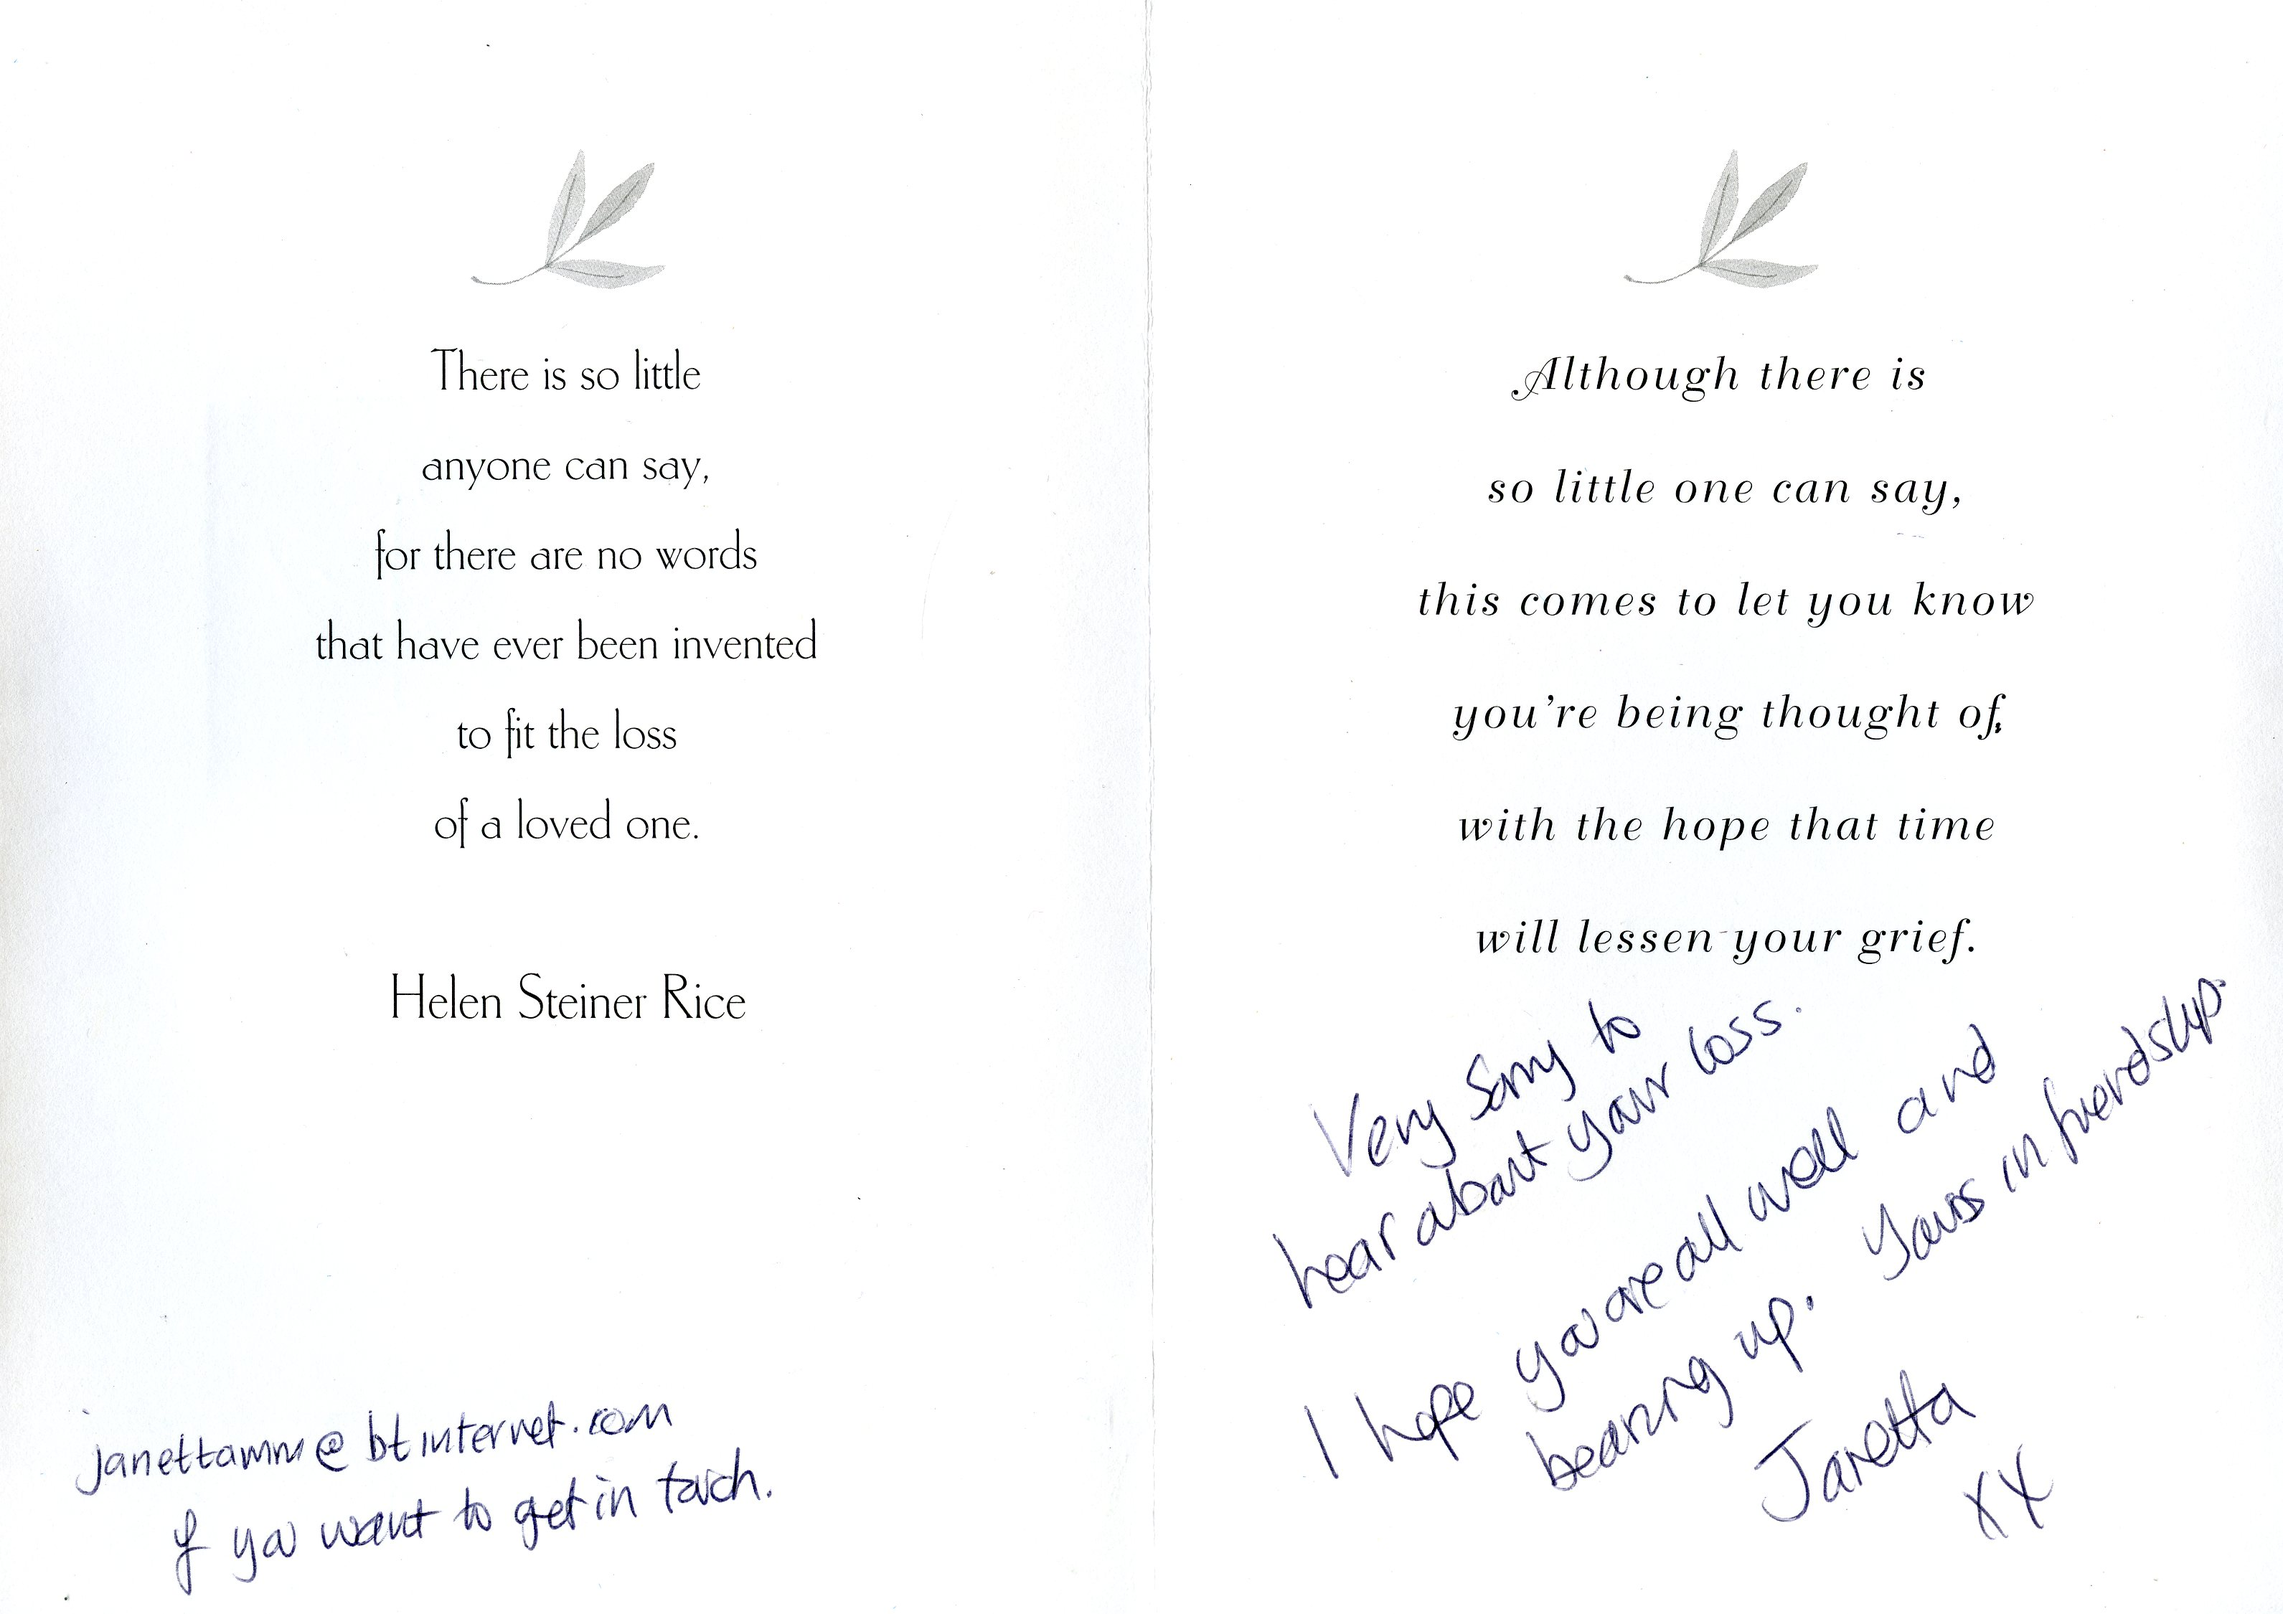
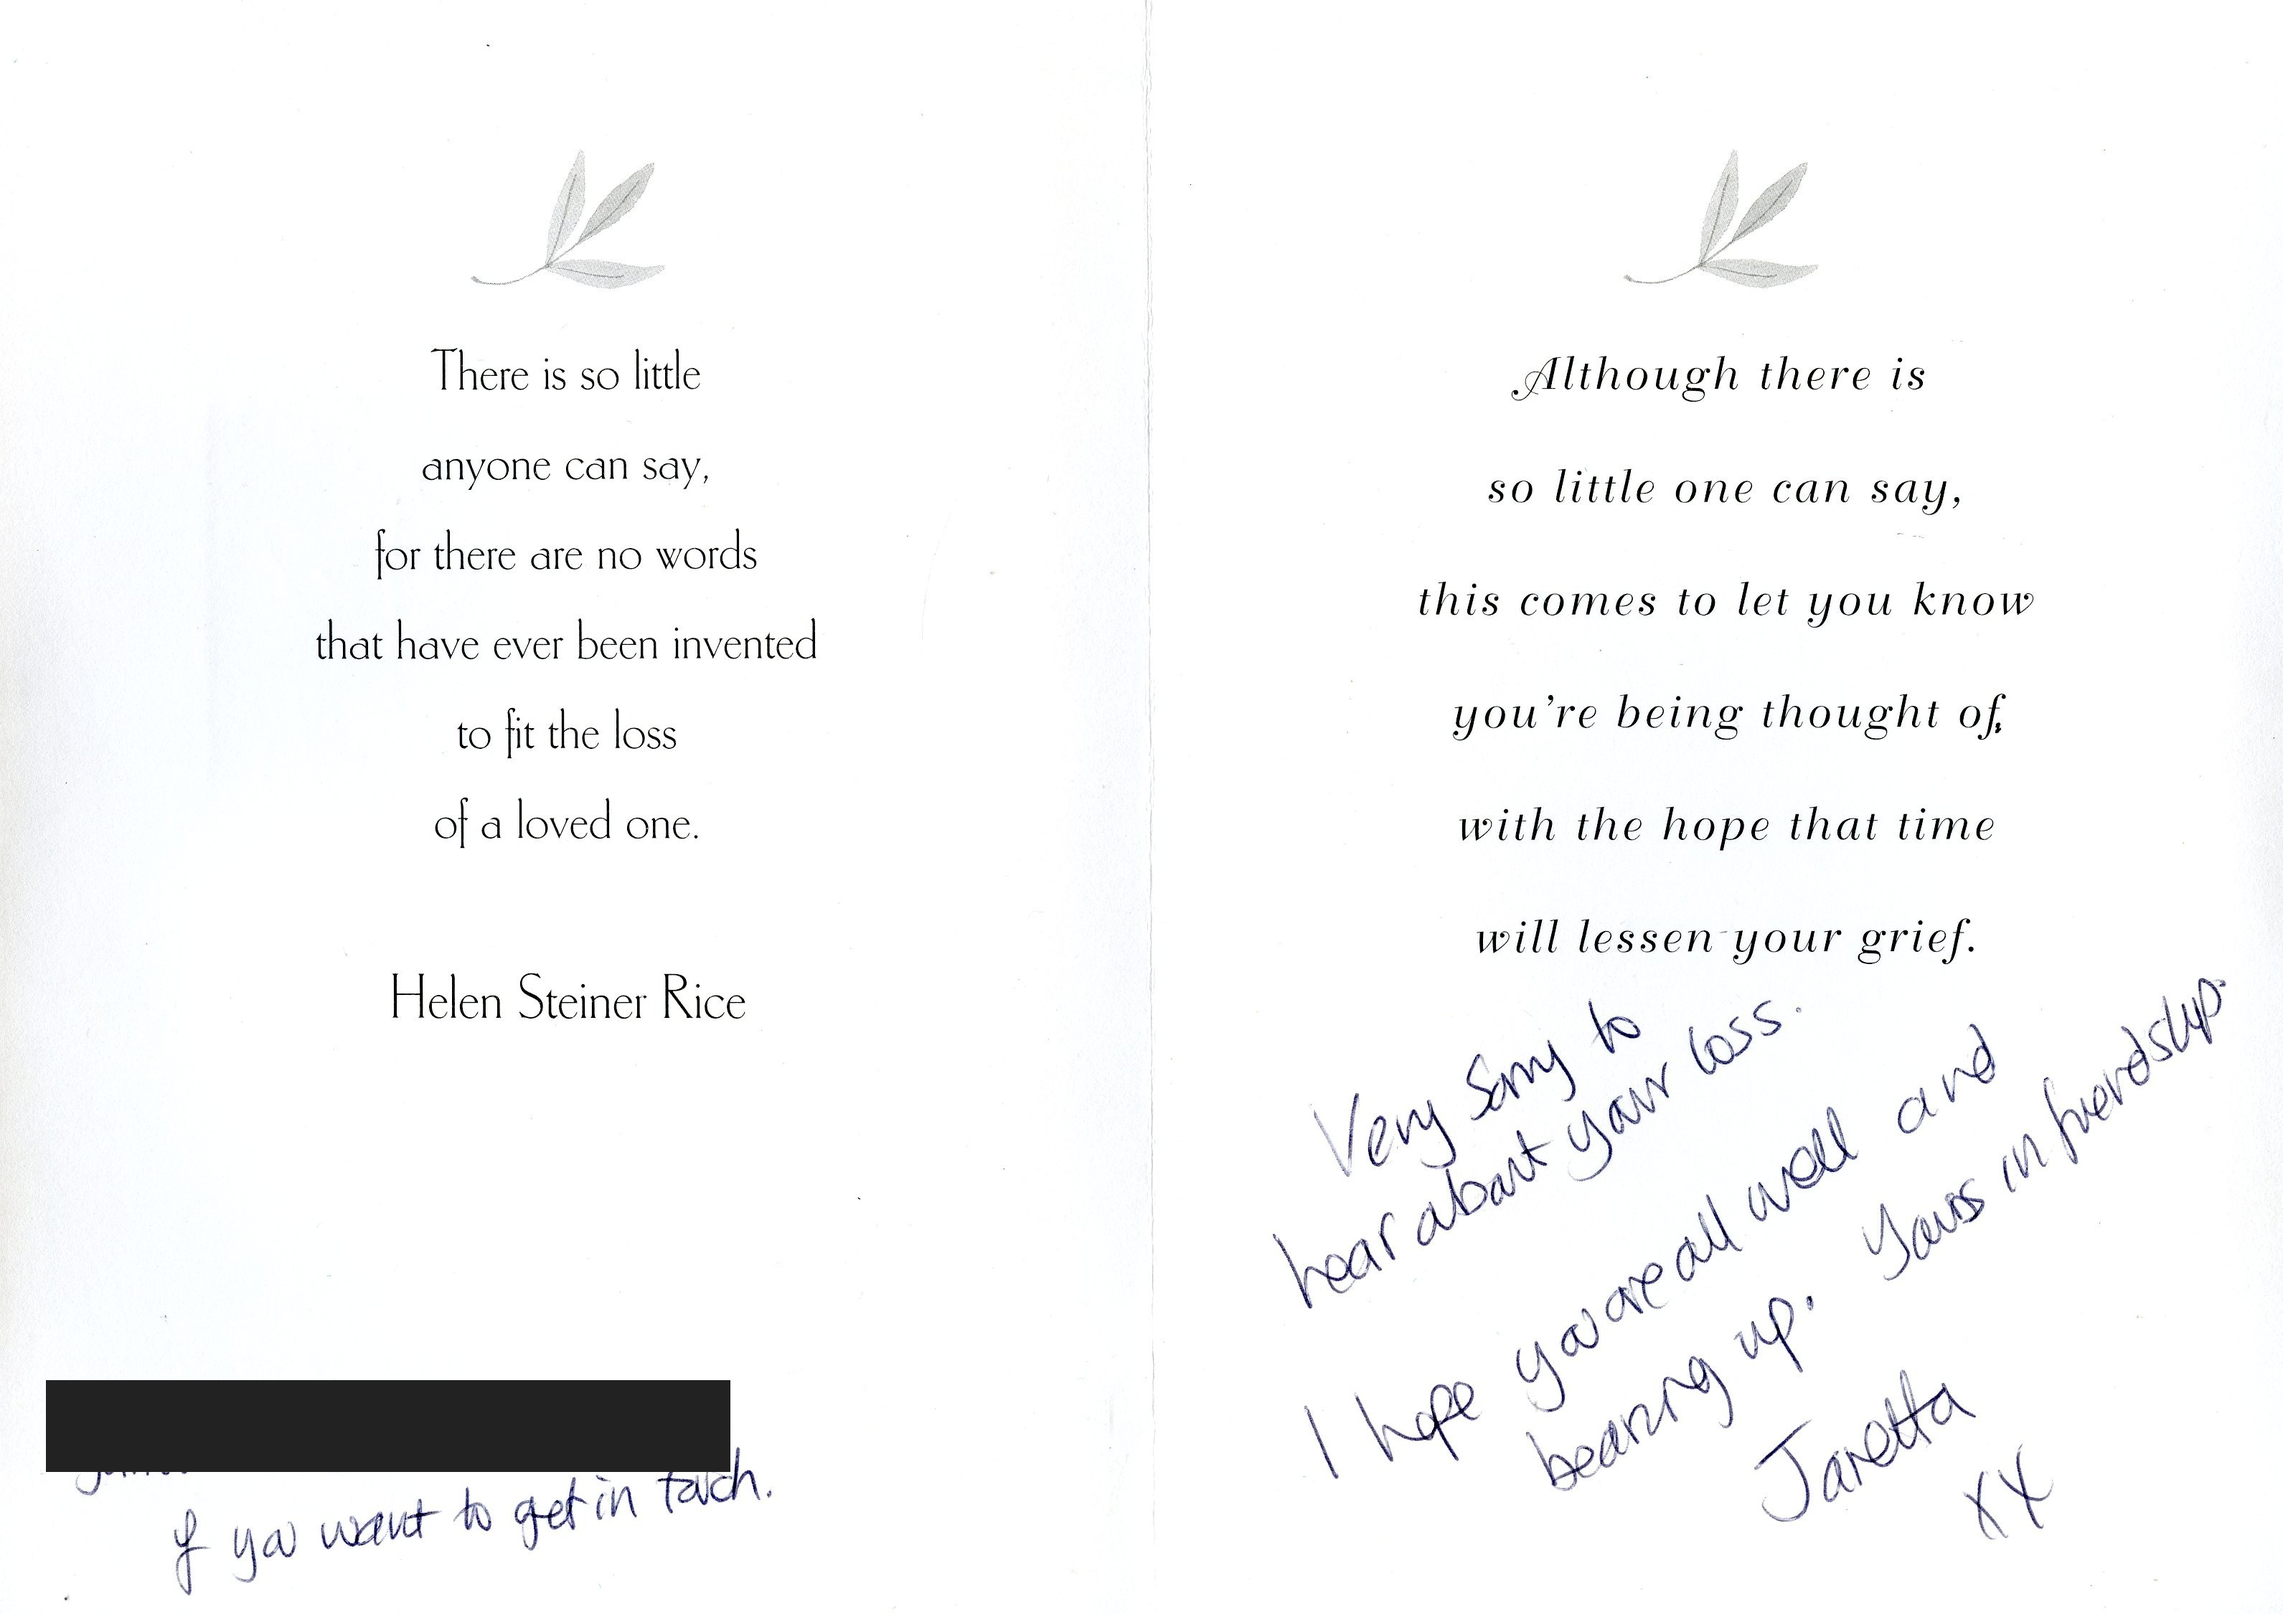
Redact addresses, phone numbers and emails from scans and transcriptions
Cover personal contact details on 28 scans with solid boxes and remove
them from 26 transcriptions. Include a content hash in image output
filenames and prune unused renditions after each build, so the cached
dist/assets/images can't keep serving old unredacted images.

Changed region(s): [[0.0, 0.84, 0.3422, 0.9333]]

diff --git a/src/_config/shortcodes/image.js b/src/_config/shortcodes/image.js
@@ -1,5 +1,8 @@
 import Image from '@11ty/eleventy-img';
+import {readdir, rm} from 'node:fs/promises';
 import path from 'node:path';
+
+const outputDir = './dist/assets/images/';
 
 const stringifyAttributes = attributeMap => {
   return Object.entries(attributeMap)
@@ -23,16 +26,30 @@ const processImage = (src, widths, formats) => {
         widths: [...widths],
         formats: [...formats],
         urlPath: '/assets/images/',
-        outputDir: './dist/assets/images/',
+        outputDir,
         filenameFormat: (id, src, width, format, options) => {
           const extension = path.extname(src);
           const name = path.basename(src, extension);
-          return `${name}-${width}w.${format}`;
+          return `${name}-${id}-${width}w.${format}`;
         }
       })
     );
   }
   return imageCache.get(key);
+};
+
+// dist/assets/images survives `npm run clean` and is cached on Netlify, so renditions of changed or removed images would otherwise still be deployed
+export const pruneUnusedImages = async () => {
+  const used = new Set();
+  for (const metadata of await Promise.all(imageCache.values())) {
+    for (const entry of Object.values(metadata).flat()) {
+      used.add(path.basename(entry.outputPath));
+    }
+  }
+  const files = await readdir(outputDir, {withFileTypes: true});
+  const unused = files.filter(file => file.isFile() && !used.has(file.name));
+  await Promise.all(unused.map(file => rm(path.join(outputDir, file.name))));
+  if (unused.length) console.log(`[image] Removed ${unused.length} unused images`);
 };
 
 export const imageShortcode = async (

diff --git a/eleventy.config.js b/eleventy.config.js
@@ -117,6 +117,9 @@ export default async function (eleventyConfig) {
   if (process.env.ELEVENTY_RUN_MODE === 'serve') {
     eleventyConfig.on('eleventy.after', events.svgToJpeg);
   }
+  if (process.env.ELEVENTY_RUN_MODE === 'build') {
+    eleventyConfig.on('eleventy.after', shortcodes.pruneUnusedImages);
+  }
 
   // --------------------- Passthrough File Copy
 

diff --git a/src/_config/shortcodes.js b/src/_config/shortcodes.js
@@ -1,4 +1,4 @@
-import {imageShortcode} from './shortcodes/image.js';
+import {imageShortcode, pruneUnusedImages} from './shortcodes/image.js';
 import {svgShortcode} from './shortcodes/svg.js';
 
-export default {imageShortcode, svgShortcode};
+export default {imageShortcode, pruneUnusedImages, svgShortcode};
